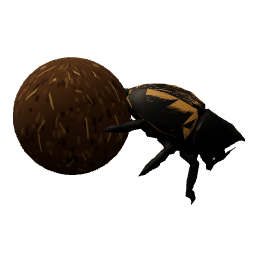
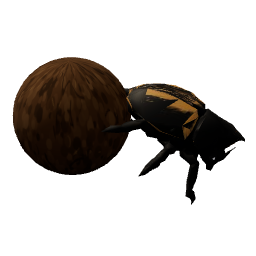
v1.125: dung ball is a smooth lumpy sphere with a mottled texture (no bright lines reading as gaps)
Claude-Session: https://claude.ai/code/session_01U3VZgJwTwg83szoVmunMdz

diff --git a/index.html b/index.html
@@ -675,7 +675,7 @@ body:has(#shinies:not([hidden])) #tray,body:has(#settings:not([hidden])) #tray,b
     <div id="belt" class="off" aria-live="polite"><div class="bh"><small>Next</small><b id="beltW">Wave 1</b><em id="beltT"></em></div><div class="row"><div class="trk" id="beltRow"></div></div></div>
     <div id="stageTag" hidden></div>
     <div id="goldFlash" aria-hidden="true"></div>
-    <div id="ver" data-b="626">v1.124</div>
+    <div id="ver" data-b="627">v1.125</div>
     <div id="vign"></div>
     <div id="hurt"></div>
     <div id="hud" hidden>
@@ -2262,17 +2262,18 @@ GEO.bedBody = mergeGeometries([
 ]);
 GEO.dungLegs = [[0.3, 0.42, 0.42, 0.75], [0.36, 0.42, 0.05, 0], [0.32, 0.42, -0.32, -0.65]];
 GEO.ball = (() => {
-  const g = new THREE.IcosahedronGeometry(1, 3), p = g.attributes.position, r = rng(31), v = new V3();
-  for (let i = 0; i < p.count; i++) { v.fromBufferAttribute(p, i); const n = 1 + (Math.sin(v.x * 7 + v.y * 3) * Math.cos(v.z * 6) * 0.06) + (r() - 0.5) * 0.06; p.setXYZ(i, v.x * n, v.y * n, v.z * n); }
+  const g = new THREE.SphereGeometry(1, 28, 20), p = g.attributes.position, v = new V3();   /* a lumpy packed ball: smooth sphere with low bumps, no visible facets */
+  for (let i = 0; i < p.count; i++) { v.fromBufferAttribute(p, i); const n = 1 + Math.sin(v.x * 5.1 + v.y * 2.3) * Math.cos(v.z * 4.7 - v.x * 1.9) * 0.05 + Math.sin(v.y * 9 + v.z * 7) * 0.02; p.setXYZ(i, v.x * n, v.y * n, v.z * n); }
   g.computeVertexNormals(); return g;
 })();
 TEX.dung = (() => {
-  const [c, x] = cnv(256, 128), r = rng(17);
-  x.fillStyle = '#5e3f22'; x.fillRect(0, 0, 256, 128);
-  for (let i = 0; i < 500; i++) { x.fillStyle = ['#4a311a', '#6e4b2a', '#7a5a34', '#3d2814'][i % 4]; x.fillRect(r() * 256, r() * 128, 2 + r() * 5, 2 + r() * 4); }
-  x.lineCap = 'round';
-  for (let i = 0; i < 40; i++) { const px = r() * 256, py = r() * 128, a = r() * Math.PI, L = 6 + r() * 12; x.strokeStyle = ['#b8975a', '#9a7a44'][i % 2]; x.lineWidth = 1.5; x.beginPath(); x.moveTo(px, py); x.lineTo(px + Math.cos(a) * L, py + Math.sin(a) * L); x.stroke(); }
-  return tex(c);
+  const [c, x] = cnv(256, 128), r = rng(17);   /* packed dung: mottled browns, soft dark cracks, a few flecks of straw; nothing bright enough to read as a gap */
+  x.fillStyle = '#5a3d20'; x.fillRect(0, 0, 256, 128);
+  for (let i = 0; i < 900; i++) { x.fillStyle = ['#4e3418', '#66482a', '#6e5030', '#3f2a14', '#5f4224'][i % 5]; x.globalAlpha = 0.6 + r() * 0.4; x.beginPath(); x.arc(r() * 256, r() * 128, 1.5 + r() * 4, 0, TAU); x.fill(); }
+  x.globalAlpha = 1; x.lineCap = 'round';
+  for (let i = 0; i < 26; i++) { const px = r() * 256, py = r() * 128, a = r() * Math.PI, L = 8 + r() * 14; x.strokeStyle = 'rgba(40,24,10,.55)'; x.lineWidth = 1.2 + r(); x.beginPath(); x.moveTo(px, py); x.quadraticCurveTo(px + Math.cos(a + 0.5) * L * 0.5, py + Math.sin(a + 0.5) * L * 0.5, px + Math.cos(a) * L, py + Math.sin(a) * L); x.stroke(); }
+  for (let i = 0; i < 18; i++) { const px = r() * 256, py = r() * 128, a = r() * Math.PI, L = 3 + r() * 5; x.strokeStyle = 'rgba(150,120,70,.5)'; x.lineWidth = 1; x.beginPath(); x.moveTo(px, py); x.lineTo(px + Math.cos(a) * L, py + Math.sin(a) * L); x.stroke(); }
+  const t = tex(c); t.wrapS = t.wrapT = THREE.RepeatWrapping; return t;
 })();
 // fly wing: smoky see-through membrane with dark veins and a dark rim so it reads against the light floor
 function wingTex() {
@@ -3710,7 +3711,7 @@ function dexAdd(t) {
   if (n >= DEX_REG.length) ACH.unlock('shiny11');
 }
 const dexSvg = t => BUGICON[t] || (BT[t] && BUGICON[BT[t].base]) || BUGICON.spider;
-const DEX_V = 'assets/bugs/dung.png?h=9b2cd285';   /* stamped by the build: its hash doubles as a version for every icon URL */
+const DEX_V = 'assets/bugs/dung.png?h=a841aa35';   /* stamped by the build: its hash doubles as a version for every icon URL */
 const dexIcon = t => `<img class="shimg" src="assets/bugs/${t}.png?v=${(DEX_V.split('?h=')[1] || '0')}" alt="" loading="lazy" onerror="this.replaceWith(Object.assign(document.createElement('span'),{innerHTML:this.dataset.svg}).firstChild)" data-svg="${dexSvg(t).replace(/"/g, '&quot;')}">`;   /* a real picture of the in-game bug */
 const dexName = t => BUG_NAME[t] || (BT[t] && BT[t].name) || t;
 function renderLocker() {

diff --git a/sw.js b/sw.js
@@ -1,5 +1,5 @@
 // offline support: the game page is fetched fresh when online (so updates show up), everything else is cached
-const CACHE = 'pest-panic-v1.124.626';
+const CACHE = 'pest-panic-v1.125.627';
 const CORE = ['./', 'index.html', 'manifest.webmanifest', 'icons/ext2-192.png', 'icons/ext2-512.png'];
 self.addEventListener('install', e => { e.waitUntil(caches.open(CACHE).then(c => c.addAll(CORE)).then(() => self.skipWaiting())); });
 self.addEventListener('activate', e => { e.waitUntil(caches.keys().then(ks => Promise.all(ks.filter(k => k !== CACHE).map(k => caches.delete(k)))).then(() => self.clients.claim())); });
